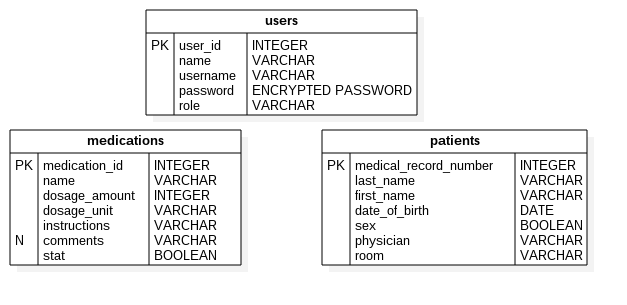
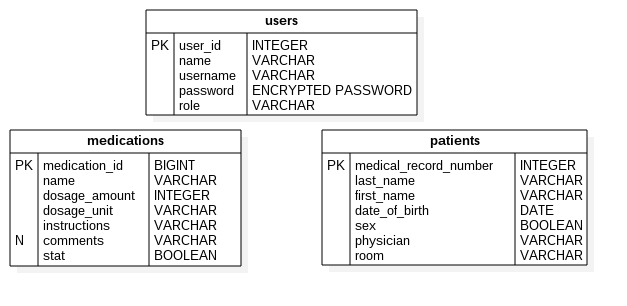
Changed medication_id to bigInt to accomodate future UPC length.

diff --git a/database/migrations/2017_11_14_022912_create_medications_table.php b/database/migrations/2017_11_14_022912_create_medications_table.php
@@ -15,7 +15,7 @@ class CreateMedicationsTable extends Migration
     {
         Schema::create('medications', function (Blueprint $table) {
             //attributes
-            $table->integer('medication_id');
+            $table->bigIncrements('medication_id');
             $table->string('name');
             $table->integer('dosage_amount');
             $table->string('dosage_unit');
@@ -23,8 +23,6 @@ class CreateMedicationsTable extends Migration
             $table->string('comments')->nullable();
             $table->boolean('stat');
             $table->timestamps();
-            //indexes
-            $table->primary('medication_id');
         });
     }
 
